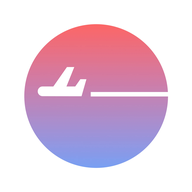
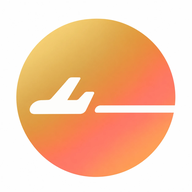
主圖示換成金橙漸層新圖；行程時間軸（圓點、時間、連接線）由金色漸變到圖示橙色 (v2026.10.30.20)

diff --git a/app.js b/app.js
@@ -4,7 +4,7 @@
 ═══════════════════════════════════════ */
 
 /* 版本號：顯示在「設定」頁最下方，每次推送更新時一起遞增，用來確認手機拿到的是不是最新版 */
-const APP_VERSION = '2026.10.30.19';
+const APP_VERSION = '2026.10.30.20';
 
 /* ─── SVG Icon Strings ─── */
 const EDIT_SVG  = `<svg xmlns="http://www.w3.org/2000/svg" viewBox="0 -960 960 960"><path d="M200-200h57l391-391-57-57-391 391v57Zm-80 80v-170l528-527q12-11 26.5-17t30.5-6q16 0 31 6t26 18l55 56q12 11 17.5 26t5.5 30q0 16-5.5 30.5T817-647L290-120H120Zm640-584-56-56 56 56Zm-141 85-28-29 57 57-29-28Z"/></svg>`;
@@ -1625,6 +1625,12 @@ function migrateLegacyPhotos() {
     }, null, '開始轉存');
 }
 
+/* 金色(0) → 圖示橙色(1) 的漸層取色：行程時間軸用 */
+function gradGoldOrange(t) {
+  const a = [212, 175, 55], b = [238, 137, 69];
+  return `rgb(${a.map((v, k) => Math.round(v + (b[k] - v) * t)).join(',')})`;
+}
+
 /* ─── Toast helper ─── */
 let _toastTimer = null;
 function showToast(msg) {
@@ -1780,7 +1786,10 @@ function renderTimeline() {
     list.innerHTML = `<div class="timeline-empty">點 ＋ 新增行程</div>`;
     return;
   }
+  // 時間軸：圓點、時間、連接線由上到下從金色漸變到圖示的橙色
+  const tAt = i => evs.length > 1 ? i / (evs.length - 1) : 0;
   list.innerHTML = evs.map((ev, i) => {
+    const c = gradGoldOrange(tAt(i)), cNext = gradGoldOrange(tAt(i + 1));
     const noteHtml = ev.note ? `<div class="timeline-note" onclick="editEvent(${ev.id})" style="cursor:pointer">${noteToHtml(ev.note)}</div>` : '';
     const addrHtml = ev.addr ? `<div class="timeline-addr" onclick="openAddr('${esc(ev.addr)}')">${esc(ev.addr)}</div>` : '';
     const stationHtml = (ev.station || ev.line) ? `
@@ -1791,12 +1800,12 @@ function renderTimeline() {
     return `
     <div class="timeline-item" style="animation-delay:${i * 0.05}s">
       <div class="timeline-left">
-        <div class="timeline-dot"></div>
-        <div class="timeline-line"></div>
+        <div class="timeline-dot" style="border-color:${c}"></div>
+        <div class="timeline-line" style="background:linear-gradient(to bottom,${c},${cNext})"></div>
       </div>
       <div class="timeline-right">
         <div class="timeline-time-row">
-          <span class="timeline-time" onclick="editEvent(${ev.id})" style="cursor:pointer">${ev.time}</span>
+          <span class="timeline-time" onclick="editEvent(${ev.id})" style="cursor:pointer;color:${c}">${ev.time}</span>
           <button class="t-del-btn" onclick="deleteEvent(${ev.id})">×</button>
         </div>
         <div class="timeline-title" onclick="editEvent(${ev.id})">${esc(ev.title)}</div>

diff --git a/index.html b/index.html
@@ -8,8 +8,8 @@
   <meta name="apple-mobile-web-app-title" content="旅遊誌">
   <meta name="theme-color" content="#ffffff">
   <link rel="manifest" href="manifest.json">
-  <link rel="apple-touch-icon" href="icon-512.png?v=8">
-  <link rel="icon" type="image/png" sizes="192x192" href="icon-192.png?v=8">
+  <link rel="apple-touch-icon" href="icon-512.png?v=9">
+  <link rel="icon" type="image/png" sizes="192x192" href="icon-192.png?v=9">
   <title>旅遊誌</title>
   <link rel="stylesheet" href="style.css">
 </head>
